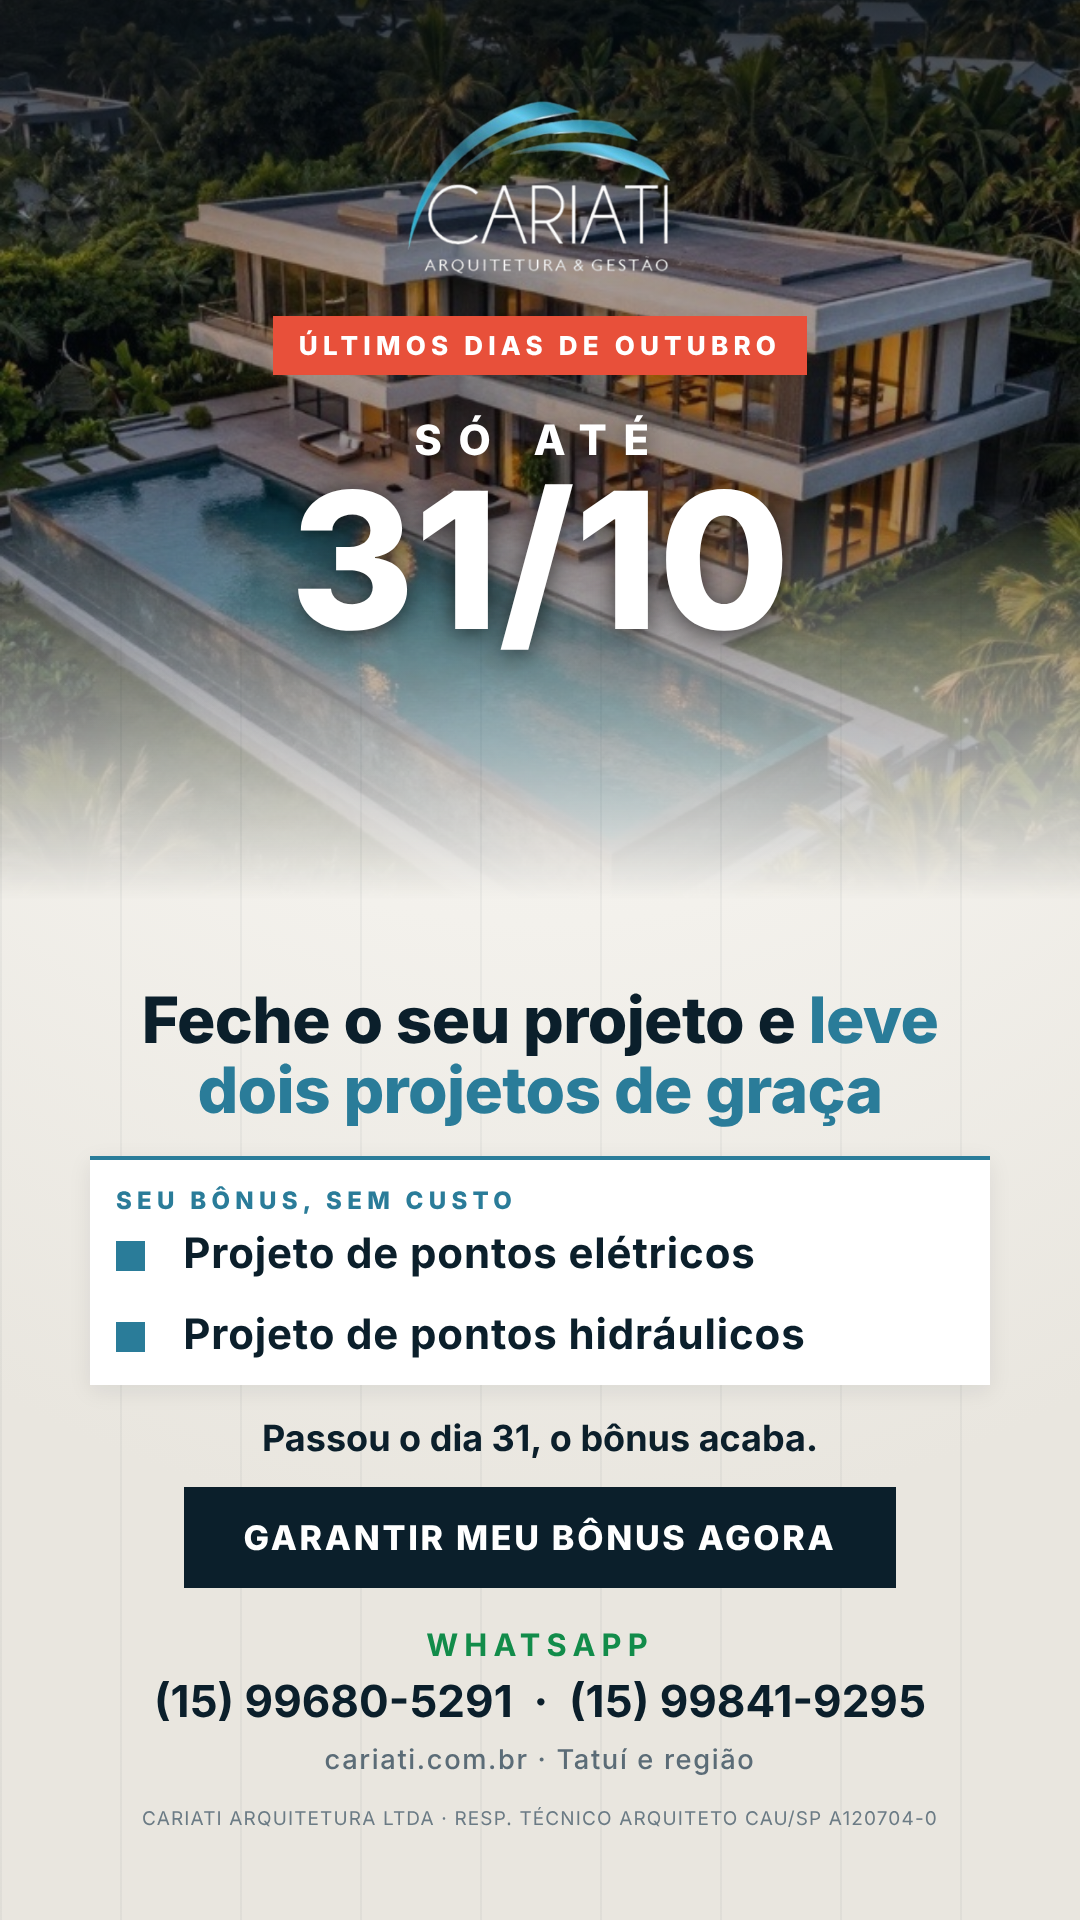
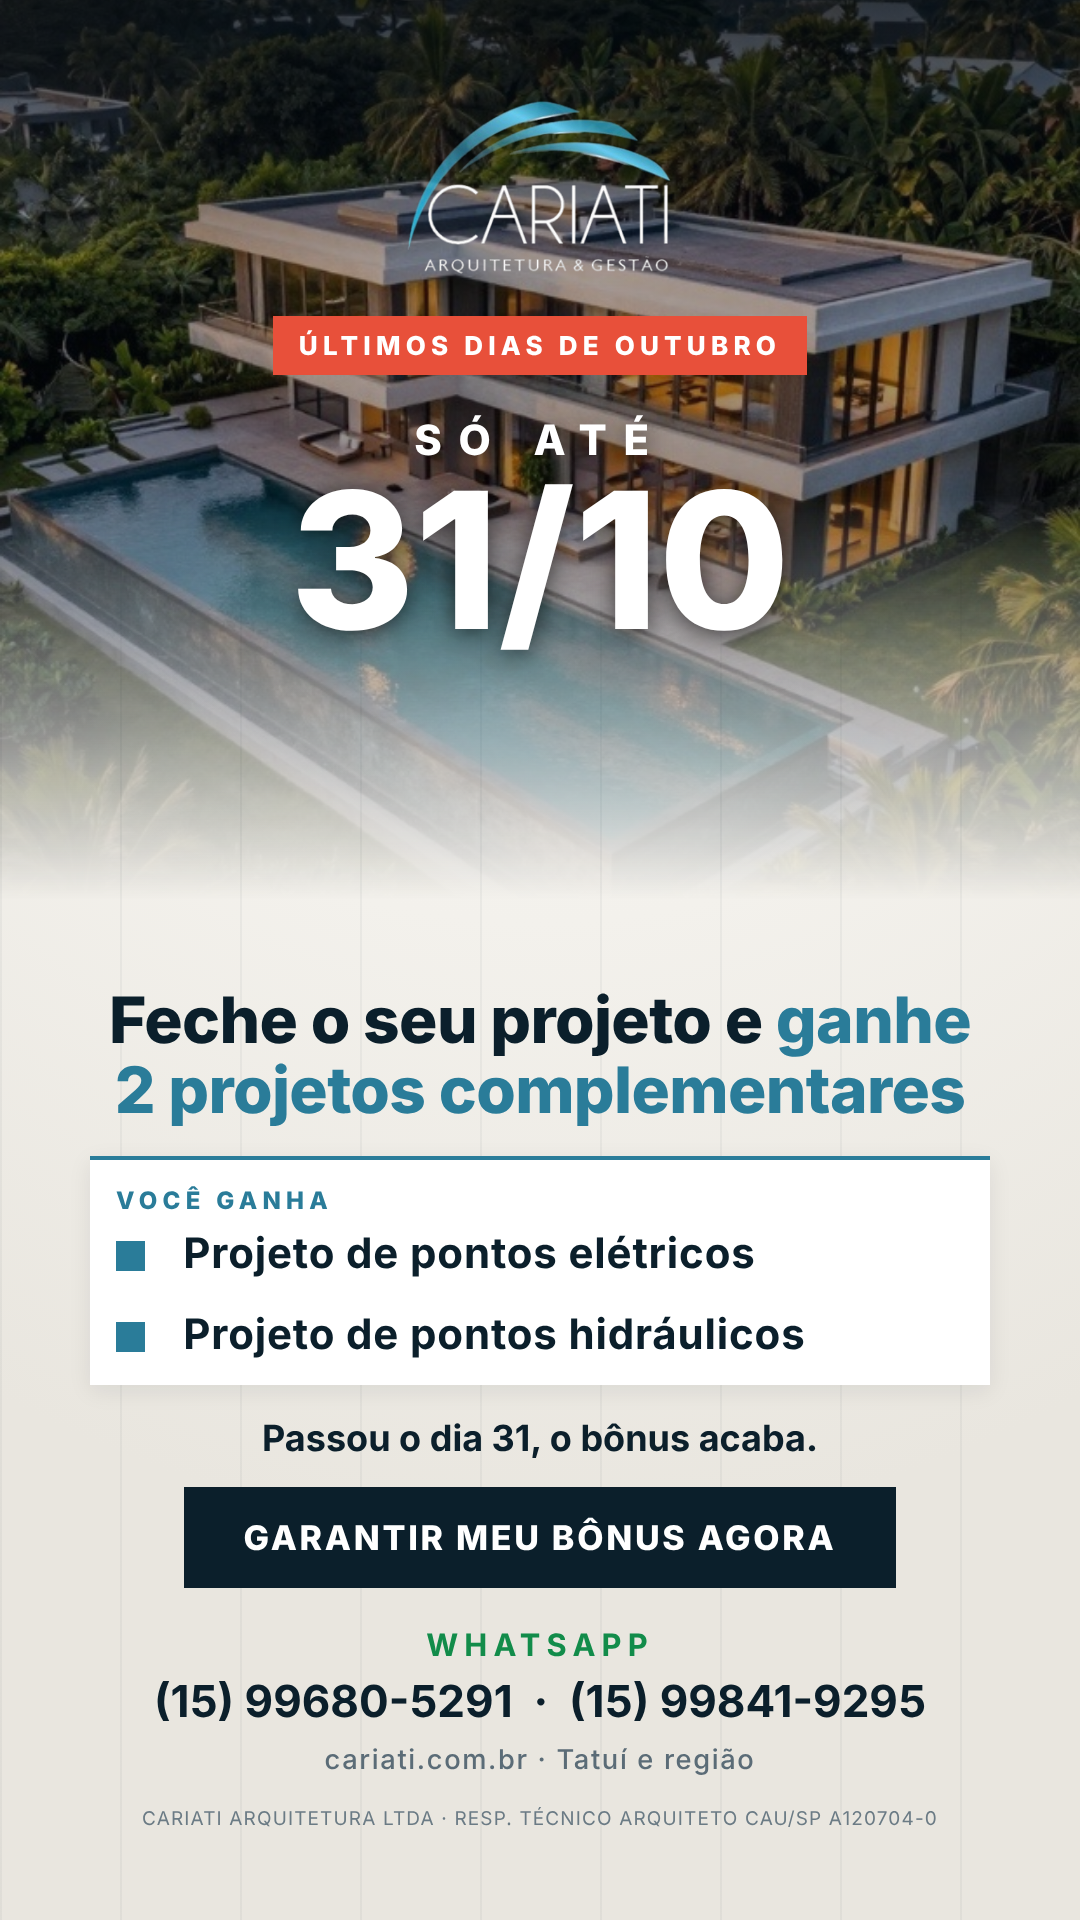
Promo: headline 'ganhe 2 projetos complementares', drop 'de graça'
Claude-Session: https://claude.ai/code/session_012W4cPJrLBDcgKi33Cw4yCm

Changed region(s): [[0.0917, 0.5, 0.9167, 0.6562]]

diff --git a/flyers_cariati/build.py b/flyers_cariati/build.py
@@ -171,12 +171,12 @@ def dica(n,hook,corpo,pratica):
 def fpromo(vert):
     bonus=lambda t:f'<li>{t}</li>'
     bl=bonus("Projeto de pontos elétricos")+bonus("Projeto de pontos hidráulicos")
-    box=f'<div class="card z promo" style="text-align:left"><div class="l" style="letter-spacing:.22em;font-size:calc(var(--cl)*.8)">SEU BÔNUS, SEM CUSTO</div><ul class="list" style="margin-top:12px">{bl}</ul></div>'
+    box=f'<div class="card z promo" style="text-align:left"><div class="l" style="letter-spacing:.22em;font-size:calc(var(--cl)*.8)">VOCÊ GANHA</div><ul class="list" style="margin-top:12px">{bl}</ul></div>'
     hero="<div class='hero' style=\"background-image:url('assets/casa_piscina.jpg')\"></div>"
     lg='<img class="logo z" src="assets/logo_branco.png" style="height:var(--lh);align-self:center">'
     urg='<div class="z" style="align-self:center"><span class="urg">Últimos dias de outubro</span></div>'
     date='<div class="z ov" style="text-align:center"><div class="ovs">SÓ ATÉ</div><div class="ovd">31/10</div></div>'
-    h='<h1 class="z" style="font-size:var(--ph);line-height:1.1">Feche o seu projeto e <em>leve dois projetos de graça</em></h1>'
+    h='<h1 class="z" style="font-size:var(--ph);line-height:1.1">Feche o seu projeto e <em>ganhe 2 projetos complementares</em></h1>'
     loss='<div class="sub z" style="font-size:var(--s)"><b>Passou o dia 31, o bônus acaba.</b></div>'
     if vert:
         return hero+lg+sp(36)+urg+sp(40)+date+sp(330)+h+sp(30)+box+sp(28)+loss+flex()+'<div class="cta z">Garantir meu bônus agora</div>'+sp(34)+PH+sp(26)+FOOT
